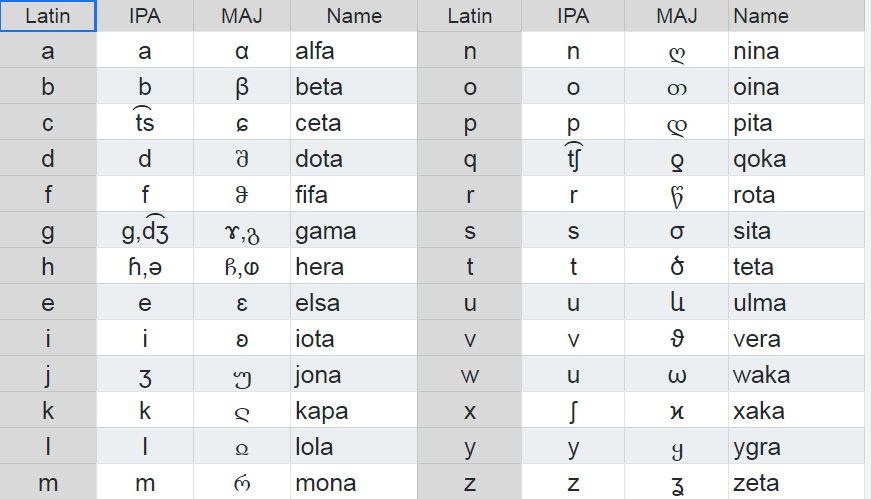
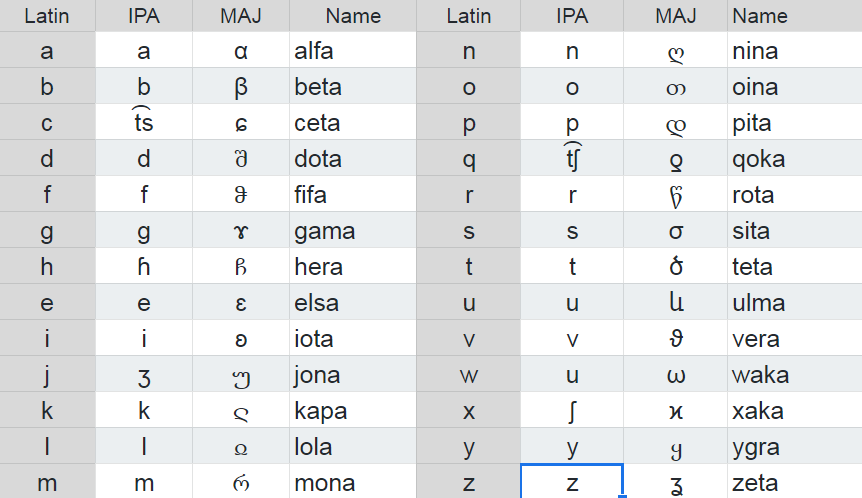
improve alphabet

diff --git a/alphabet.md b/alphabet.md
@@ -1,12 +1,10 @@
 # MAJ Alphabet
 
-Maj alphabet has 26 Latin letters. Each letter has associated a unique pronunciations but there are two exceptions: Letter g and letter h have two distinct pronunciations. So Maj script have 28 letters.
+Maj alphabet has 26 letters. Each letter has associated a unique pronunciation.
 
 **notes:**
 * the order of letters is different from ISO standard;
-* name if letters start with the letter it represents;
-* each letter represent one sound except `g` and `h`;
-* for handwriting see details on: [script](script.md) page;
+* letters name start with the letter it represents;
 
 Latin | IPA  | MAJ | Maj Name
 ------|------|-----|-----------
@@ -15,8 +13,8 @@ Latin | IPA  | MAJ | Maj Name
   c   | ts   | ɕ   | ceta
   d   | d    | შ   | dota
   f   | f    | ჵ   | fifa
-  g   | g,dʒ | ɤ,გ | gama
-  h   | ɦ,ə  | ჩ,ⱷ | ɦera
+  g   | g    | ɤ   | gama
+  h   | h    | ჩ   | ɦera
   e   | e    | ɛ   | elsa
   i   | i    | ʚ   | iota
   j   | ʒ    | უ   | jona
@@ -37,16 +35,17 @@ Latin | IPA  | MAJ | Maj Name
   y   | y    | ყ   | ykra
   z   | z    | ʓ   | zeta
 
+**See also:** [script](script.md) page;
+
 
 ## Pronunciation
 
-* Maj sounds are influenced by Central European languages;
 * Maj sounds require healthy tongue, lips, teeth and vocal chords;
-* Maj is an articulate language with strong consonants and clear vowels;
 * Maj sounds do not require to put your tongue between your teeth;
 * Maj sounds do not require inverted tongue tip (retroflex);
 * Maj has deterministic phonetic rules, no need to spell words;
-* You will never byte your tongue or spit arround by speaking Maj;
+* Maj has strong consonants and clear vowels similar to Portuguese;
+* You will never byte your tongue or spit around by speaking Maj;
 
 **Tools:**
 
@@ -63,13 +62,6 @@ For explaining the alphabet pronunciation we have used phonetic symbols:
 * [IPA Wikipedia ](https://en.wikipedia.org/wiki/International_Phonetic_Alphabet_chart)
 
 **Phonetic:**
-
-Maj phonetic writing is a precise form of Maj that uses diacritics to represent reading rules.
-
-* Letter "ə" is used instead of "h" after a consonant;
-* Letter "ə" is also used when "h" is the last letter in a word;
-* Grave accent can be used to stress a letter: {à è ì ò ù} that is not after "g";
-* Diaeresis { ä ë ï ö ü ӛ ÿ } can be used after "g" to prevent formation of "soft g";
 
 Phonetic notation has language prefix and is enclosed in double quotes like this:
 
@@ -111,10 +103,10 @@ Learn more: [listening](https://en.wikipedia.org/wiki/Close_central_unrounded_vo
 
 **Letter `h`:** has two pronunciations depending on it's position in word and previous letter:
 
-* `ɦ` at beginning of words or after a vowel sounds like "h" in "hoard";
-* `ə` after a consonant or at the end of words, sounds like `e` in "after";
+* `h` at beginning of words or after a vowel sounds like "h" in "hoard";
+* `ə` at the end of words or after a consonant sounds like `e` in "after";
 
-Since on QUERTY KEYBOARD there is not `ɦ` and no `ə` you can use "h" instead.
+Since on QUERTY KEYBOARD there is not `ə` you can use "h" instead.
 
 * veha = "vehicle" in this case `h` is `ɦ` like IPA:"veɦa"
 * zhi  = "they"    in this case `h` is `ə` like IPA:"zəi"
@@ -154,7 +146,10 @@ For question mark: You should pronounce a longer vowel and gliding the tone from
 
 **accent:**
 
-Maj words do not have an accent per say. Usually the first vowel in a word is a bit stronger then the other vowels. This can be changed if the vowel has an accent over it. In this case only one vowel can have an accent. It becomes a bit stronger than the normal tone.
+Maj words have a constant accent. Usually the first vowel in a word is a bit stronger then the other vowels. This can be changed if the vowel has an accent over it. In this case only one vowel can have an accent. It becomes a bit stronger than the normal tone.
+
+* Grave accent can be used to stress a letter: {à è ì ò ù};
+* Letter "ə" can not have an accent. @
 
 ## Consonants
 
@@ -167,7 +162,7 @@ nasal    | m       |              | n        |       |               |
 trill    |         |              | r        |       |               | 
 fricative|         | f,v          | s,z      |       | x, j          | ɦ
 lateral  |         |              | l        |       |               |
-affricate|         |              | c        |       | q, dʒ         |
+affricate|         |              | c        |       | q, ʤ          |
 
 
 Most consonants are similar to: Italian and Romanian but are also found in English;
@@ -207,8 +202,6 @@ Most frequent digraphs are associate with letters:
 [listen](https://en.wikipedia.org/wiki/Voiceless_postalveolar_affricate)
 * Letter `x` sounds `ʃ` or `ʂ` like `sh` in  "fashion": 
 [listen](https://en.wikipedia.org/wiki/Voiceless_postalveolar_fricative)
-* Letter `g` sounds like `d͡ʒ` is like "ge" in "genetic";
-[listen](https://en.wikipedia.org/wiki/Voiced_postalveolar_affricate)
 
 **Examples:** 
 Phonetic writing is quoted using IPA: notation 
@@ -217,7 +210,7 @@ Phonetic writing is quoted using IPA: notation
 * xava => IPA:"ʃava"    = "shovel"    
 * koqa => IPA:"kot͡ʃa"  = "coach"     
 * qika => IPA:"t͡ʃika"  = "girl"      
-* cita => IPA:"t͡sita"  = "target"    
+* cita => IPA:"t͡sita"  = "target"
 
 **Modified: c**
 
@@ -239,47 +232,6 @@ Maj letter "k" is plosive-valear not trilled. It may be pronounced like "c" in "
 **Trilled: r**
 
 Letter "r" is trill-alveolar in Maj. It is strong like double "rr" in English. To produce this sound, your tongue is relaxed and the tip of tongue taps the roof of the mouth several times. 
-
-**Fricative: j** 
-
-Letter "j" is voiced fricative-post alveolar.  This sound must be produced with the tip of your tongue relaxed on  roof top and softly vibrated. Best IPA symbol for this sound is `ʒ`. 
-
-* ijma	=> IPA:"iʒma" = "picture"
-* joka  => IPA:"ʒoka" = "game"
-
-**Modified: g**
-
-Maj is a Romance language therefore it has two pronunciations for letter `g`: 
-
-* hard g = equivalent to script:(ɤ) IPA:"g"
-* soft g = equivalent to script:(გ) IPA:"d͡ʒ"
-
-**Soft: g = გ** 
-
-Learn more: [listen](https://en.wikipedia.org/wiki/Voiced_postalveolar_affricate)
-
-Letter "g" followed by vowels {`e`, `i`} becomes soft, post-alveolar affricate similar to `gi` in word "giraffe". This sound must be produced with the middle of your tongue relaxed on roof top of your mouth softly vibrated. Best IPA symbol for this sound is `d͡ʒ`. 
-
-* gema = gema => IPA:"d͡ʒema" = "money"
-
-To prevent formation of soft g you must use diaeresis: {ë, ï} after "g" or use other vowel. 
-
-**Hard: g = ɤ** 
-
-Learn more: [listen](https://en.wikipedia.org/wiki/Voiced_velar_stop)
-
-Letter "g" followed by {`a`,`u`,`o`,`y`,`w`,`h`} or any consonant becomes hard `g` = `ğ`. This sound is produced similar to `k` except it is vibrated. The IPA symbol for hard `g` is actually "g". It sounds similar to `g` in "guitar".
-
-* goxa => MAJ:"göxa" => IPA: "goʃa" = "left"
-* agra => MAJ:"agra" => IPA: "agra" = "farmer"
-
-**notes:**
-
-In all Romance languages "g" is problematic. Italian and Romanian is using groups "ge", "gi" for soft "g" and "ghe", "ghi" for hard "g". This method is problematic. Sound "d͡ʒa" or "d͡ʒu" can not be produced. 
-
-In English and Spanish the hard "g" can be followed by silent "u". This method is also problematic, sound "gu" can not be produced. To produce "u" after "g" in Spanish you must use diaeresis: "gü", a method which was recently deprecated.
-
-Maj solve this problem by making letter "გ" for "soft g" and letter "ɤ" for "hard g". For print alphabet, "g" in front of "e" or "i" becomes soft, except if you use diaeresis. 
 
 
 **Modified: q**

diff --git a/basic.md b/basic.md
@@ -72,9 +72,9 @@ I Nominative | Singular | Plural
 
 II Objective | Singular | Plural
 -------------|----------|--------------
-  1          | mie      | noh
-  2          | cie      | voh
-  3          | sie      | zoh
+  1          | mie      | nuo
+  2          | cie      | vuo
+  3          | sie      | zuo
 
 III Posesiv  | Singular | Plural
 -------------|----------|--------------
@@ -105,9 +105,9 @@ Is the person or the thing who receive the action.
 
  ps | singular             | plural     
 ----|----------------------|-----------------------------
- 1  | mie = to me          | noh = to us   
- 2  | cie = to you         | voh = to y'all
- 3  | sie = to him/her     | zoh = to them 
+ 1  | mie = to me          | nuo = to us   
+ 2  | cie = to you         | vuo = to y'all
+ 3  | sie = to him/her     | zuo = to them 
  
 **Possessive**
 
@@ -419,7 +419,7 @@ In Maj: indefinite article is resolved by using _numeral articles_.
 
 * oru = any
 * omi = every
-* tao = all
+* tot = all
 * mai = many
 * plu = more 
 * pao = few
@@ -434,7 +434,7 @@ Common noun is using plural "e" or singular "a" with different articles:
 * omi mela = every apple
 * oru mela = any apple
 * som mele = some apples
-* tao mele = all apples
+* tot mele = all apples
 * mai mele = many apples
 * ixo cen male = approximative 10 apples
 

diff --git a/numerals.md b/numerals.md
@@ -160,11 +160,11 @@ Note: TODO: Fix oes not work due to change in tense:
 
 bits| maj            | description
 ----|----------------|----------------------
-0/1 | bin            | binary
-8   | rig            | octet
-16  | un'rig         | short integer
-32  | du'rig         | integer
-64  | qu'rig         | long integer
+0/1 | bina           | binary
+8   | riga           | octet
+16  | un'riga        | short integer
+32  | du'rige        | integer
+64  | qu'rige        | long integer
 
 Griat!
 

diff --git a/preposition.md b/preposition.md
@@ -213,7 +213,6 @@ Conjunctive preposition is a word used to connect ideas and arguments in a sente
  asi | thus    | therefore, hence, so, then, thus 
  ido | and     | also
  kan | non     | negative 
- kaz | case    | when is the case
  sim | like    | comparative, similar = symo
  mem | same    | identical
  niq | neither | alternative 

diff --git a/adverbs.md b/adverbs.md
@@ -14,7 +14,7 @@ MAJ   |ENGLISH      |SPANISH
 ------|-------------|------------
 tot   |all          |todas
 tan   |so           |tan
-ufo   |sometimes    |a veces
+avo   |sometimes    |a veces
 ugo   |even         |incluso
 veg   |away         |lejos
 
